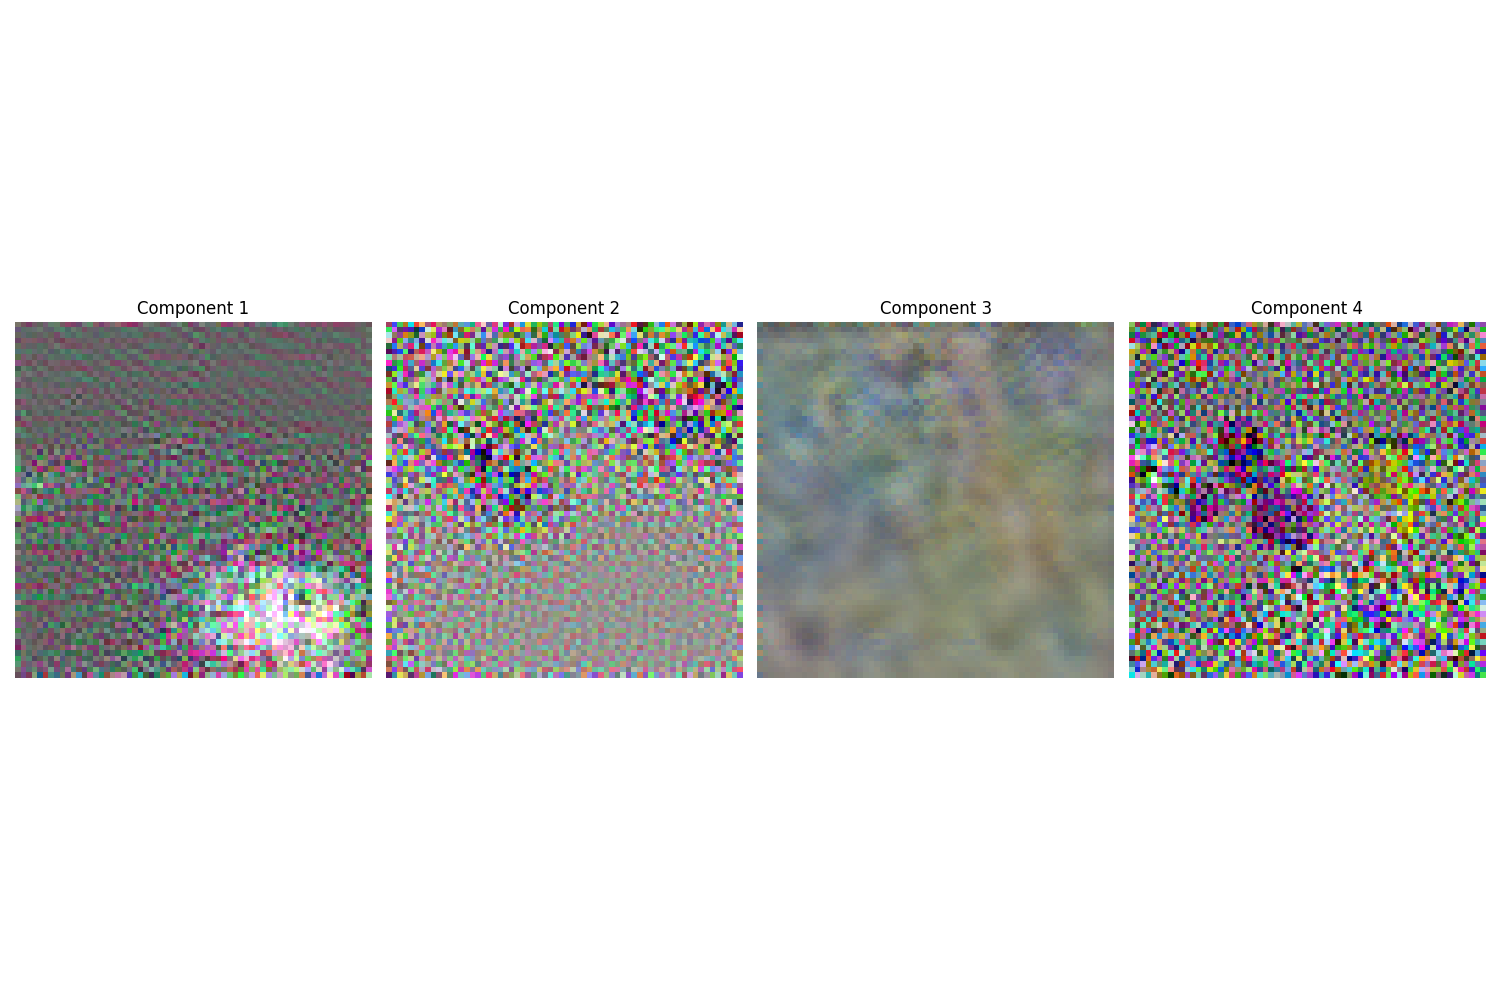
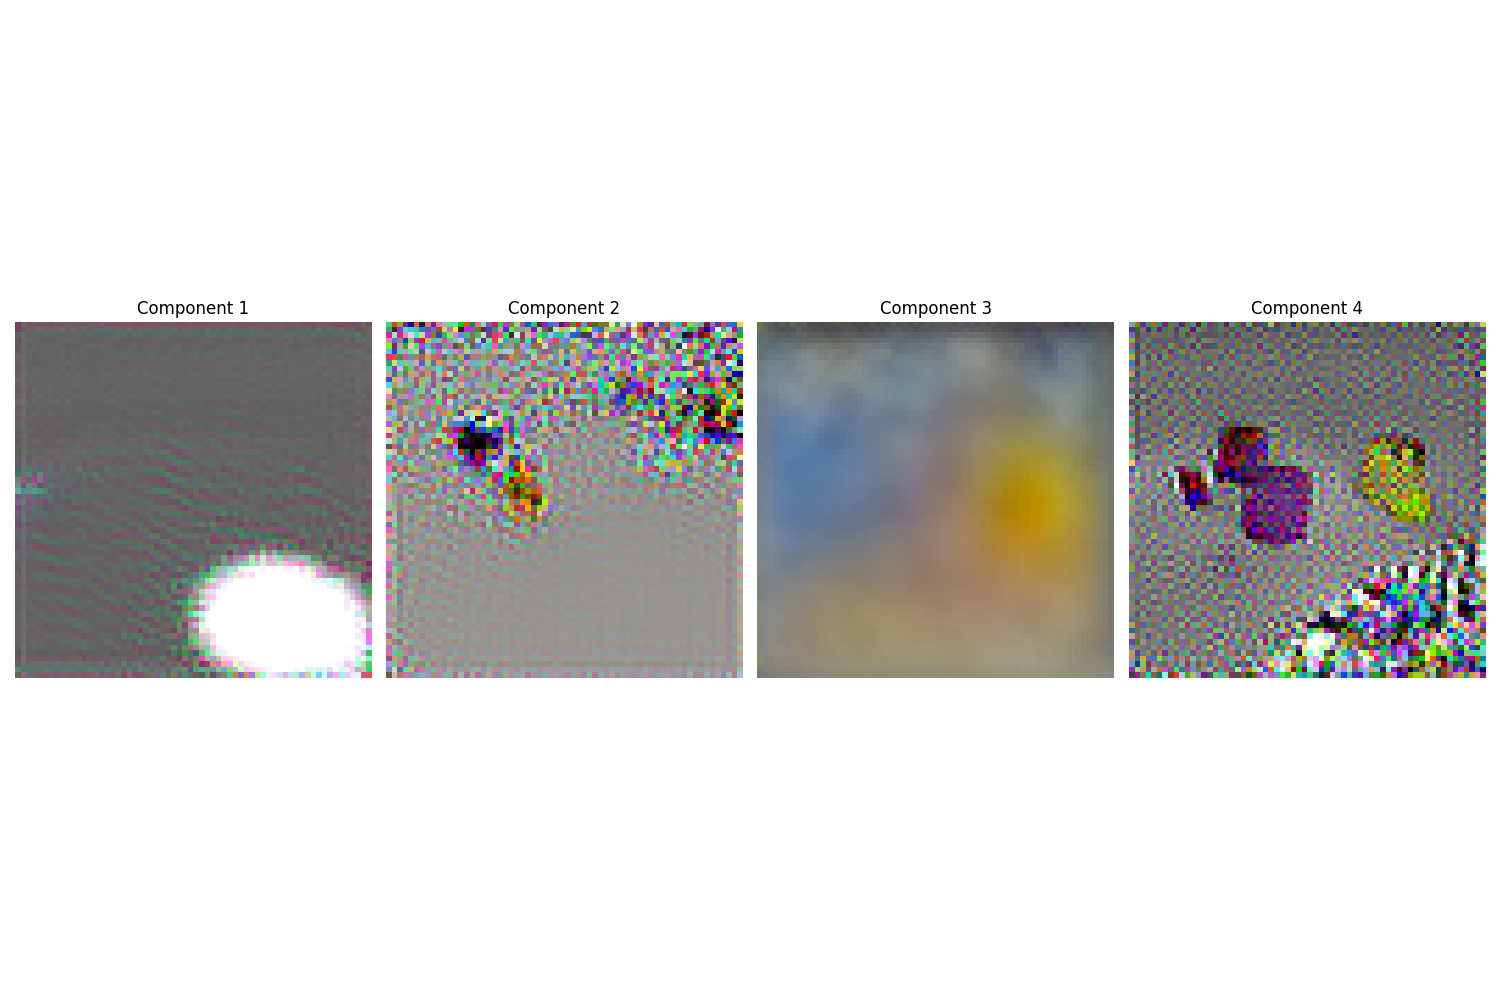
components more train

Changed region(s): [[0.0, 0.31, 1.0, 0.682]]

diff --git a/src/test_final.py b/src/test_final.py
@@ -66,20 +66,22 @@ def test_model(config_path, dataset_type, model_type, checkpoint_path, num_steps
     im_neg = torch.rand_like(im)
     im_negs = gen_image(latents, config, models, im_neg, num_steps)
 
-    plt.imshow(im[0].detach().numpy().transpose(1,2,0))
-    plt.title("Original Image")
-    plt.axis("off")
+    # TODO: Uncomment below to see original image and steps in gen image
+
+    # plt.imshow(im[0].detach().numpy().transpose(1,2,0))
+    # plt.title("Original Image")
+    # plt.axis("off")
 
 
     # Visualize results
-    plt.figure(figsize=(15, 10))
-    for idx, im_neg in enumerate(im_negs):
-        plt.subplot(6, 5, idx + 1)  # Adjust grid size based on the number of images
-        plt.imshow(im_neg[0].detach().cpu().numpy().transpose(1, 2, 0))  # Transpose for RGB images
-        plt.title(f"Step {idx + 1}")
-        plt.axis("off")
-        plt.tight_layout()
-    plt.show()
+    # plt.figure(figsize=(15, 10))
+    # for idx, im_neg in enumerate(im_negs):
+    #     plt.subplot(6, 5, idx + 1)  # Adjust grid size based on the number of images
+    #     plt.imshow(im_neg[0].detach().cpu().numpy().transpose(1, 2, 0))  # Transpose for RGB images
+    #     plt.title(f"Step {idx + 1}")
+    #     plt.axis("off")
+    #     plt.tight_layout()
+    # plt.show()
 
 
     gif_path = f"src/videos/{dataset_type}.gif"
@@ -96,7 +98,7 @@ def test_model(config_path, dataset_type, model_type, checkpoint_path, num_steps
     plt.figure(figsize=(15, 10))
     for i, latent in enumerate(latents):
         im_neg = torch.rand_like(im)  # Initialize a random image
-        im_negs = gen_image(latents, config, models, im_neg, num_steps, idx=i)  # Use only the i-th component
+        im_negs = gen_image(latents, config, models, im_neg, num_steps*2, idx=i)  # Use only the i-th component
 
         # Plot the final generated image for this component
         im_neg_np = im_negs[-1][0].detach().cpu().numpy().transpose(1, 2, 0)
